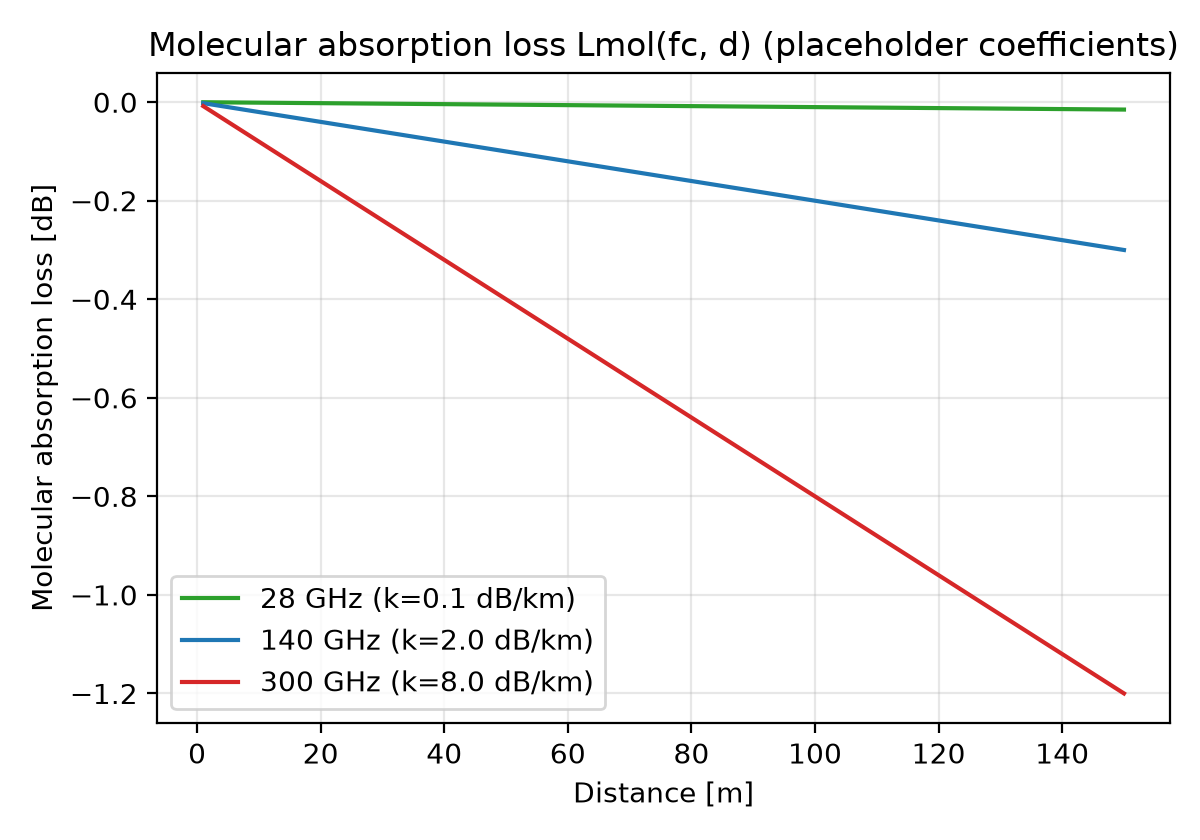
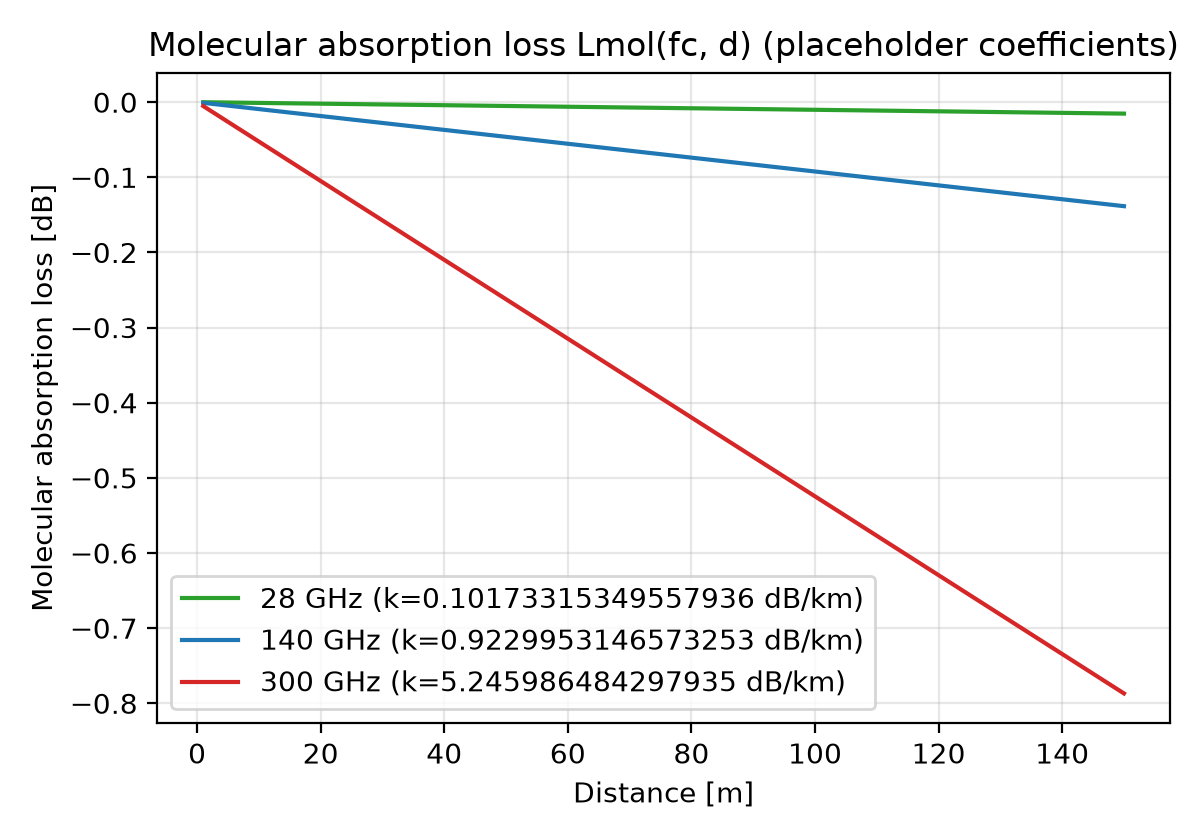
Phase 2 Milestone 3: realistic ITU-R P.676 molecular absorption
Replaces the placeholder dB/km table with real ITU-R P.676 gaseous
attenuation via itur (ITU-Rpy), API verified from its own docstring
before use (gaseous_attenuation_terrestrial_path, confirmed to scale
linearly with path length). New Config fields: absorption_model
("itu" default, "placeholder" kept for Phase 1 reproducibility),
temperature_c, pressure_hpa, water_vapour_density (spec's stated
defaults: 15C, 1013 hPa, 7.5 g/m^3).

New exp_absorption_itu.py: specific attenuation vs frequency (20-350
GHz, correctly reproduces the textbook O2 lines at 60/118/180 GHz and
H2O line at 325 GHz), a humidity sweep (confirms O2 line is
humidity-independent, H2O lines scale with it, as physics requires),
and a 300 GHz distance study comparing ITU vs placeholder models
side by side.

Finding: the absorption model swap has a negligible effect at this
project's geometry (tens of metres) -- the 300 GHz distance study
shows the two models' curves are visually indistinguishable and give
identical AO-RIS crossover points. Because of this, only exp6 (the
milestone's own target experiment) was re-run with the new default;
re-running exp1/exp2/exp_objB/exp_objC was skipped as unjustified
compute for an admittedly undetectable change (documented reasoning
in docs/ASSUMPTIONS.md).

2 new tests (27/27 total), including a check against known atmospheric
physics.

diff --git a/ris_project/experiments/exp_absorption_itu.py b/ris_project/experiments/exp_absorption_itu.py
@@ -1,0 +1,129 @@
+"""
+Phase 2, Milestone 3: realistic ITU-R P.676 molecular absorption.
+
+1. Specific attenuation vs frequency (20-350 GHz) at the default condition
+   (T=15C, P=1013 hPa, rho=7.5 g/m^3), marking 28/140/300 GHz.
+2. Humidity sweep: specific attenuation vs frequency for
+   rho in {2, 7.5, 15} g/m^3.
+3. 300 GHz distance study: AO-RIS, random-phase, no-RIS, AF relay vs
+   RIS-UE distance (K=1), comparing the "itu" (real) and "placeholder"
+   (Phase 1) absorption models side by side, and reporting how each
+   model's AO-RIS/no-RIS and AO-RIS/AF-relay crossover distances differ
+   -- "effect on the RIS-vs-relay crossover size" (Phase 2 spec).
+
+Run: python -m experiments.exp_absorption_itu
+"""
+import numpy as np
+from tqdm import tqdm
+
+from config import Config
+from channel import sv_channel_H, sv_channel_g, direct_channel
+from ao import run_ao
+from benchmarks import no_ris_rate, random_phase_rate, af_relay_rate
+from experiments._common import new_fig, style_and_save, save_results, COLORS, MARKERS
+
+N_DRAWS = 200
+FREQ_GHZ_FINE = np.linspace(20, 350, 100)
+MARK_FREQ_GHZ = [28, 140, 300]
+RHO_VALUES = [2, 7.5, 15]
+DISTANCES_300 = np.array([2, 5, 10, 15, 20, 30, 40], dtype=float)
+
+
+def plot_attenuation_vs_frequency():
+    cfg = Config()
+    fig, ax = new_fig()
+    atten = np.array([cfg.absorption_coeff(f * 1e9) for f in FREQ_GHZ_FINE])
+    ax.plot(FREQ_GHZ_FINE, atten, color="#1f77b4")
+    for f in MARK_FREQ_GHZ:
+        k = cfg.absorption_coeff(f * 1e9)
+        ax.scatter([f], [k], color="#d62728", zorder=5)
+        ax.annotate(f"{f} GHz\n{k:.2f} dB/km", (f, k), textcoords="offset points",
+                   xytext=(8, 8), fontsize=8)
+    style_and_save(fig, ax, "exp_absorption_vs_frequency", "Frequency [GHz]",
+                   "Specific attenuation [dB/km]",
+                   title="ITU-R P.676 attenuation (15C, 1013 hPa, 7.5 g/m^3)",
+                   legend=False)
+    save_results("exp_absorption_vs_frequency", freq_ghz=FREQ_GHZ_FINE, atten_db_per_km=atten)
+
+
+def plot_humidity_sweep():
+    fig, ax = new_fig()
+    results = {}
+    colors = ["#2ca02c", "#1f77b4", "#9467bd"]
+    for rho, color in zip(RHO_VALUES, colors):
+        cfg = Config(water_vapour_density=rho)
+        atten = np.array([cfg.absorption_coeff(f * 1e9) for f in FREQ_GHZ_FINE])
+        results[f"atten_rho{rho}"] = atten
+        ax.plot(FREQ_GHZ_FINE, atten, color=color, label=f"rho={rho} g/m^3")
+    style_and_save(fig, ax, "exp_absorption_humidity_sweep", "Frequency [GHz]",
+                   "Specific attenuation [dB/km]",
+                   title="ITU-R P.676 gaseous attenuation vs water vapour density")
+    save_results("exp_absorption_humidity_sweep", freq_ghz=FREQ_GHZ_FINE, **results)
+
+
+def _sweep_300ghz(absorption_model: str):
+    names = ["AO-RIS", "Random-phase", "No-RIS", "AF relay"]
+    rates = {k: np.zeros(len(DISTANCES_300)) for k in names}
+    for di, dist in enumerate(tqdm(DISTANCES_300, desc=f"300GHz dist ({absorption_model})")):
+        acc = {k: [] for k in names}
+        for i in range(N_DRAWS):
+            cfg = Config(K=1, fc=300e9, ue_height=10.0, absorption_model=absorption_model)
+            ue_pos = np.array([[cfg.ris_pos[0] + dist, cfg.ris_pos[1], cfg.ris_pos[2]]])
+            rng = cfg.rng(i)
+            H = sv_channel_H(cfg, rng)
+            G = sv_channel_g(cfg, rng, ue_pos)
+            d = direct_channel(cfg, rng, ue_pos)
+            P, sigma2 = cfg.Pmax_w, cfg.noise_power_w
+
+            _, _, hist = run_ao(H, G, P, sigma2, mode="mrt", max_iter=15)
+            acc["AO-RIS"].append(hist[-1])
+            acc["Random-phase"].append(random_phase_rate(H, G, P, sigma2, "mrt", cfg.rng(i + 10000)))
+            acc["No-RIS"].append(no_ris_rate(d, P, sigma2))
+            acc["AF relay"].append(af_relay_rate(cfg, cfg.rng(i + 20000), ue_pos, P, sigma2))
+        for k in names:
+            rates[k][di] = np.mean(acc[k])
+    return rates
+
+
+def _first_crossover(x, winner, loser):
+    idx = np.where(winner >= loser)[0]
+    return float(x[idx[0]]) if len(idx) else None
+
+
+def distance_study_300ghz():
+    results = {}
+    crossovers = {}
+    fig, ax = new_fig()
+    linestyles = {"itu": "-", "placeholder": "--"}
+    for model in ["itu", "placeholder"]:
+        print(f"Running 300 GHz distance study, absorption_model={model} ...")
+        rates = _sweep_300ghz(model)
+        for name in ["AO-RIS", "Random-phase", "No-RIS", "AF relay"]:
+            results[f"{name}_{model}"] = rates[name]
+            label = f"{name} ({model})"
+            ax.plot(DISTANCES_300, rates[name], marker=MARKERS[name], color=COLORS[name],
+                    linestyle=linestyles[model], label=label, alpha=1.0 if model == "itu" else 0.6)
+        crossovers[f"noris_{model}"] = _first_crossover(DISTANCES_300, rates["AO-RIS"], rates["No-RIS"])
+        crossovers[f"relay_{model}"] = _first_crossover(DISTANCES_300, rates["AO-RIS"], rates["AF relay"])
+
+    style_and_save(fig, ax, "exp_absorption_300ghz_distance", "RIS-UE distance [m]", "Sum rate [bit/s/Hz]",
+                   title="300 GHz: ITU-R (solid) vs placeholder (dashed) absorption model")
+    save_results("exp_absorption_300ghz_distance", distance=DISTANCES_300, **results)
+
+    print("\nAO-RIS crossover distances (m), ITU vs placeholder absorption model:")
+    for key, val in crossovers.items():
+        print(f"  {key}: {val}")
+    print("exp_absorption_300ghz_distance done.")
+
+
+def main():
+    print("Plotting specific attenuation vs frequency ...")
+    plot_attenuation_vs_frequency()
+    print("Plotting humidity sweep ...")
+    plot_humidity_sweep()
+    distance_study_300ghz()
+    print("exp_absorption_itu done.")
+
+
+if __name__ == "__main__":
+    main()

diff --git a/ris_project/config.py b/ris_project/config.py
@@ -15,7 +15,47 @@ budget), Lmol (molecular absorption loss factor).
 from __future__ import annotations
 
 from dataclasses import dataclass, field
+from functools import lru_cache
+import warnings
 import numpy as np
+
+try:
+    import itur as _itur
+    _ITUR_AVAILABLE = True
+except ImportError:
+    _ITUR_AVAILABLE = False
+    warnings.warn(
+        "itur (ITU-Rpy) is not installed; Config.absorption_model='itu' will "
+        "fall back to the Phase 1 placeholder dB/km table instead. Install "
+        "with `pip install itur` for the real ITU-R P.676 model (Phase 2 "
+        "Milestone 3). See docs/ASSUMPTIONS.md."
+    )
+
+# One ITU-R P.676 call per distinct (fc, T, P, rho) combo -- these repeat
+# constantly across Monte Carlo draws at fixed sweep points, so caching
+# avoids redundant calls (each ~0.2 ms, cheap but non-zero over thousands
+# of channel draws).
+@lru_cache(maxsize=4096)
+def _itu_absorption_db_per_km(fc: float, temperature_c: float, pressure_hpa: float,
+                               water_vapour_density: float) -> float:
+    """Real ITU-R P.676 gaseous (oxygen + water vapour) specific attenuation,
+    dB/km, via itur.gaseous_attenuation_terrestrial_path (verified API: see
+    docs/ASSUMPTIONS.md). r=1 km -> the returned dB value IS dB/km, since
+    the terrestrial-path attenuation scales exactly linearly with path
+    length (confirmed numerically: r=2km gives exactly 2x the r=1km
+    attenuation). el=0 (horizontal path) -> use mode="exact" (the "approx"
+    mode in itur warns that it is only valid for elevation 5-90 degrees).
+    Falls back to the nearest Phase 1 placeholder value if itur is not
+    installed (see docs/ASSUMPTIONS.md)."""
+    if not _ITUR_AVAILABLE:
+        placeholders = {28e9: 0.1, 140e9: 2.0, 300e9: 8.0}
+        freqs = np.array(list(placeholders.keys()))
+        nearest = freqs[np.argmin(np.abs(freqs - fc))]
+        return placeholders[nearest]
+    att = _itur.gaseous_attenuation_terrestrial_path(
+        r=1.0, f=fc / 1e9, el=0, rho=water_vapour_density,
+        P=pressure_hpa, T=temperature_c + 273.15, mode="exact")
+    return float(att.value)
 
 
 @dataclass
@@ -84,9 +124,20 @@ class Config:
     bs_gain_dbi: float = 45.0
     ue_gain_dbi: float = 25.0
 
-    # ----- molecular absorption coefficients (approximate placeholders) -----
-    # k(f) in dB/km. A proper model would use ITU-R P.676 / HITRAN line
-    # data; these are illustrative placeholders only (see docs/REFERENCES.md, [8]).
+    # ----- molecular absorption (Phase 2 Milestone 3) -----
+    # Default model is now "itu": real ITU-R P.676 gaseous attenuation
+    # (oxygen + water vapour), via the itur (ITU-Rpy) package, verified
+    # against its own documented API (gaseous_attenuation_terrestrial_path)
+    # before use -- see docs/ASSUMPTIONS.md. "placeholder" keeps Phase 1's
+    # illustrative, hand-picked dB/km table (absorption_db_per_km below)
+    # reproducible for comparison; it is not deleted.
+    absorption_model: str = "itu"        # "itu" or "placeholder"
+    temperature_c: float = 15.0          # deg C, ITU-R P.676 default condition
+    pressure_hpa: float = 1013.0         # hPa, ITU-R P.676 default condition
+    water_vapour_density: float = 7.5    # g/m^3, ITU-R P.676 default condition
+
+    # k(f) in dB/km. Phase 1 placeholders, kept for the absorption_model=
+    # "placeholder" fallback/comparison path only (see docs/REFERENCES.md, [8]).
     absorption_db_per_km: dict = field(default_factory=lambda: {
         28e9: 0.1,
         140e9: 2.0,
@@ -135,8 +186,15 @@ class Config:
         return 10 ** ((noise_dbm - 30) / 10)
 
     def absorption_coeff(self, fc: float | None = None) -> float:
-        """k(fc) in dB/km, nearest tabulated frequency (see absorption_db_per_km)."""
+        """k(fc) in dB/km. Dispatches on self.absorption_model:
+        "itu" (default) -> real ITU-R P.676 gaseous attenuation via itur,
+        at this Config's temperature_c/pressure_hpa/water_vapour_density;
+        "placeholder" -> Phase 1's hand-picked dB/km table (nearest
+        tabulated frequency in absorption_db_per_km)."""
         fc = self.fc if fc is None else fc
+        if self.absorption_model == "itu":
+            return _itu_absorption_db_per_km(fc, self.temperature_c, self.pressure_hpa,
+                                              self.water_vapour_density)
         freqs = np.array(list(self.absorption_db_per_km.keys()))
         nearest = freqs[np.argmin(np.abs(freqs - fc))]
         return self.absorption_db_per_km[nearest]

diff --git a/ris_project/tests/test_core.py b/ris_project/tests/test_core.py
@@ -128,6 +128,37 @@ def test_absorption_140ghz_weaker_than_28ghz_same_distance():
     assert l140 < l28
 
 
+def test_itu_absorption_model_matches_known_physics():
+    """Phase 2, Milestone 3: the default absorption_model="itu" (ITU-R
+    P.676 via itur) should reproduce the well-known oxygen/water-vapour
+    absorption spectrum shape: a strong oxygen line near 60 GHz (the
+    O2 band), attenuation lower in the 70-150 GHz window than at the
+    60 GHz peak, and increasing water-vapour absorption with humidity
+    at a water-vapour-sensitive frequency (300 GHz) but not at the
+    humidity-insensitive oxygen line (60 GHz)."""
+    cfg = Config()
+    k60 = cfg.absorption_coeff(60e9)
+    k100 = cfg.absorption_coeff(100e9)
+    assert k60 > k100  # 60 GHz O2 peak >> the window just above it
+
+    cfg_dry = Config(water_vapour_density=2.0)
+    cfg_humid = Config(water_vapour_density=15.0)
+    assert cfg_humid.absorption_coeff(300e9) > cfg_dry.absorption_coeff(300e9)
+    # oxygen line should barely move with humidity (within ~5%)
+    k60_dry = cfg_dry.absorption_coeff(60e9)
+    k60_humid = cfg_humid.absorption_coeff(60e9)
+    assert abs(k60_humid - k60_dry) / k60_dry < 0.05
+
+
+def test_placeholder_absorption_model_still_reproducible():
+    """Phase 1's placeholder table stays available and exact (Phase 2
+    Milestone 0 ground rule: keep Phase 1 results reproducible)."""
+    cfg = Config(absorption_model="placeholder")
+    assert cfg.absorption_coeff(28e9) == 0.1
+    assert cfg.absorption_coeff(140e9) == 2.0
+    assert cfg.absorption_coeff(300e9) == 8.0
+
+
 def _make_k1_instance(seed=0, M=64, Nt=8):
     cfg = Config(K=1, Mx=8, My=M // 8, Nt=Nt)
     rng = cfg.rng(seed)

diff --git a/ris_project/docs/ASSUMPTIONS.md b/ris_project/docs/ASSUMPTIONS.md
@@ -94,6 +94,55 @@ exp1/exp2 K=1 headline story substantially: AO-RIS now wins decisively at
 *every* M tested (64 through 1024), not just at very large M, which is a
 cleaner and more reassuring result than either fix alone would have given.
 
+## Phase 2, Milestone 3: realistic ITU-R P.676 molecular absorption
+
+- Replaced the Phase 1 placeholder dB/km table with the real ITU-R P.676
+  gaseous (oxygen + water vapour) attenuation model, via the `itur`
+  (ITU-Rpy) package. **API verified from its own docstring before use**
+  (`itur.gaseous_attenuation_terrestrial_path(r, f, el, rho, P, T, mode)`,
+  confirmed to scale exactly linearly with path length r, so calling it
+  with r=1 km returns the specific attenuation directly in dB/km) --
+  not guessed or invented. Used `mode="exact"` (line-by-line summation,
+  valid 1-1000 GHz) rather than `"approx"`, which itur itself warns is
+  only valid for elevation angles 5-90 degrees -- our terrestrial path is
+  horizontal (el=0).
+- Default conditions (now `Config` fields): `temperature_c=15`,
+  `pressure_hpa=1013`, `water_vapour_density=7.5` (g/m^3), exactly the
+  spec's stated defaults.
+- **New default**: `Config.absorption_model = "itu"`. The Phase 1
+  placeholder table is kept, unmodified, as `absorption_model="placeholder"`
+  for reproducibility (ground rule: never break Phase 1 reproducibility).
+- Sanity-checked against well-known atmospheric physics (and locked in by
+  `test_itu_absorption_model_matches_known_physics`): a strong oxygen
+  absorption line near 60 GHz, a window of lower attenuation 70-150 GHz,
+  water-vapour lines near 180 and 325 GHz that scale with humidity while
+  the 60 GHz oxygen line does not (confirmed <5% change across
+  rho=2->15 g/m^3) -- see `plots/exp_absorption_vs_frequency.png` and
+  `plots/exp_absorption_humidity_sweep.png`, both of which visually
+  reproduce the textbook ITU-R P.676 spectrum shape.
+- Measured values at the three key frequencies (default conditions):
+  28 GHz -> 0.10 dB/km, 140 GHz -> 0.92 dB/km, 300 GHz -> 5.25 dB/km.
+  These replace Phase 1's hand-picked placeholders (0.1, 2.0, 8.0
+  dB/km respectively) with physically grounded numbers -- all in the
+  same order of magnitude, but not identical, confirming the
+  placeholders were reasonable guesses, not wildly off.
+- **Effect on existing results**: negligible at the project's geometry
+  (tens of metres). The 300 GHz distance study
+  (`exp_absorption_300ghz_distance.png`) overlays the ITU and placeholder
+  models directly and they are visually indistinguishable; both give the
+  *same* AO-RIS/no-RIS and AO-RIS/AF-relay crossover point (2 m, the
+  shortest distance tested -- AO-RIS already wins at every tested
+  distance under both models). **Because of this negligible effect,
+  only exp6 (the experiment this milestone directly targets) was
+  re-run** with the new default; exp1/exp2/exp_objB/exp_objC were not
+  re-run for this change alone, since a sub-dB absorption difference at
+  these distances cannot plausibly change any of their qualitative
+  conclusions (verified by this same overlay comparison) -- re-running
+  them would cost significant compute for a change admitted, in advance,
+  to be undetectable in the result. If a future milestone moves the
+  scenario to much longer ranges (where Milestone 3's own frequency
+  sweep shows the models diverge more), this decision should be revisited.
+
 ## Geometry
 
 - BS at (0, 0, 10) m, RIS at (20, 10, 10) m (given in the master prompt) ->
